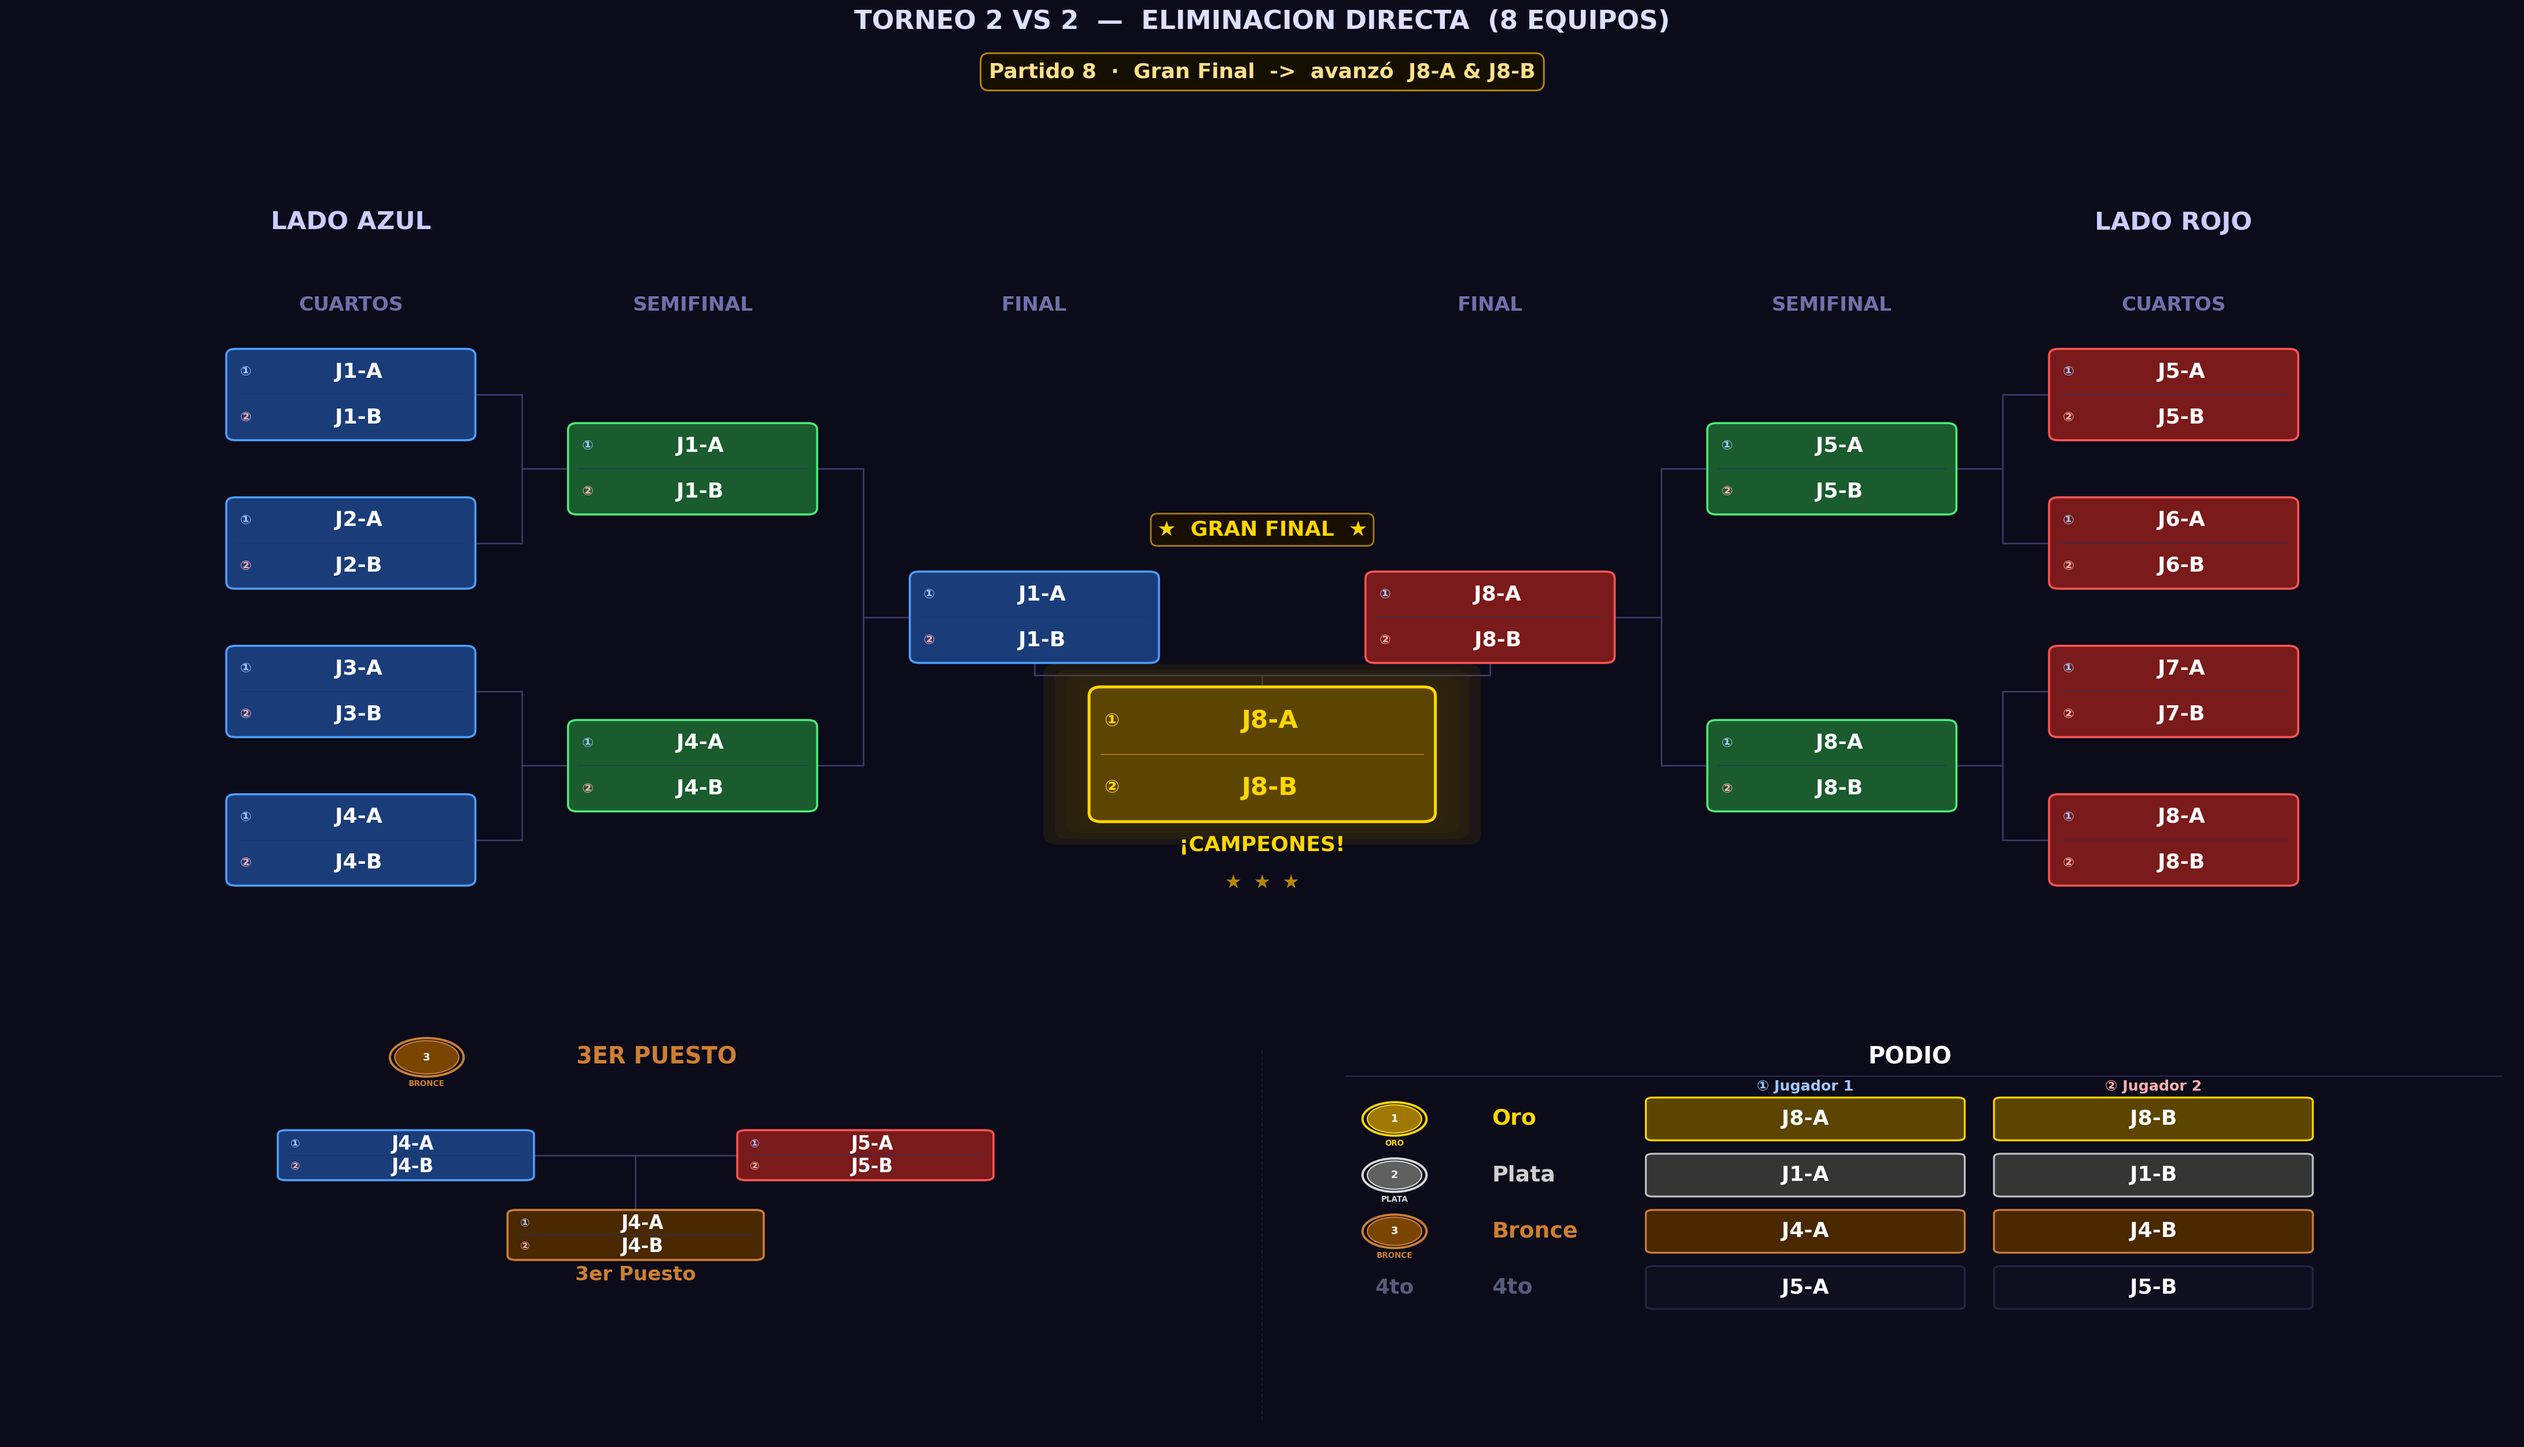
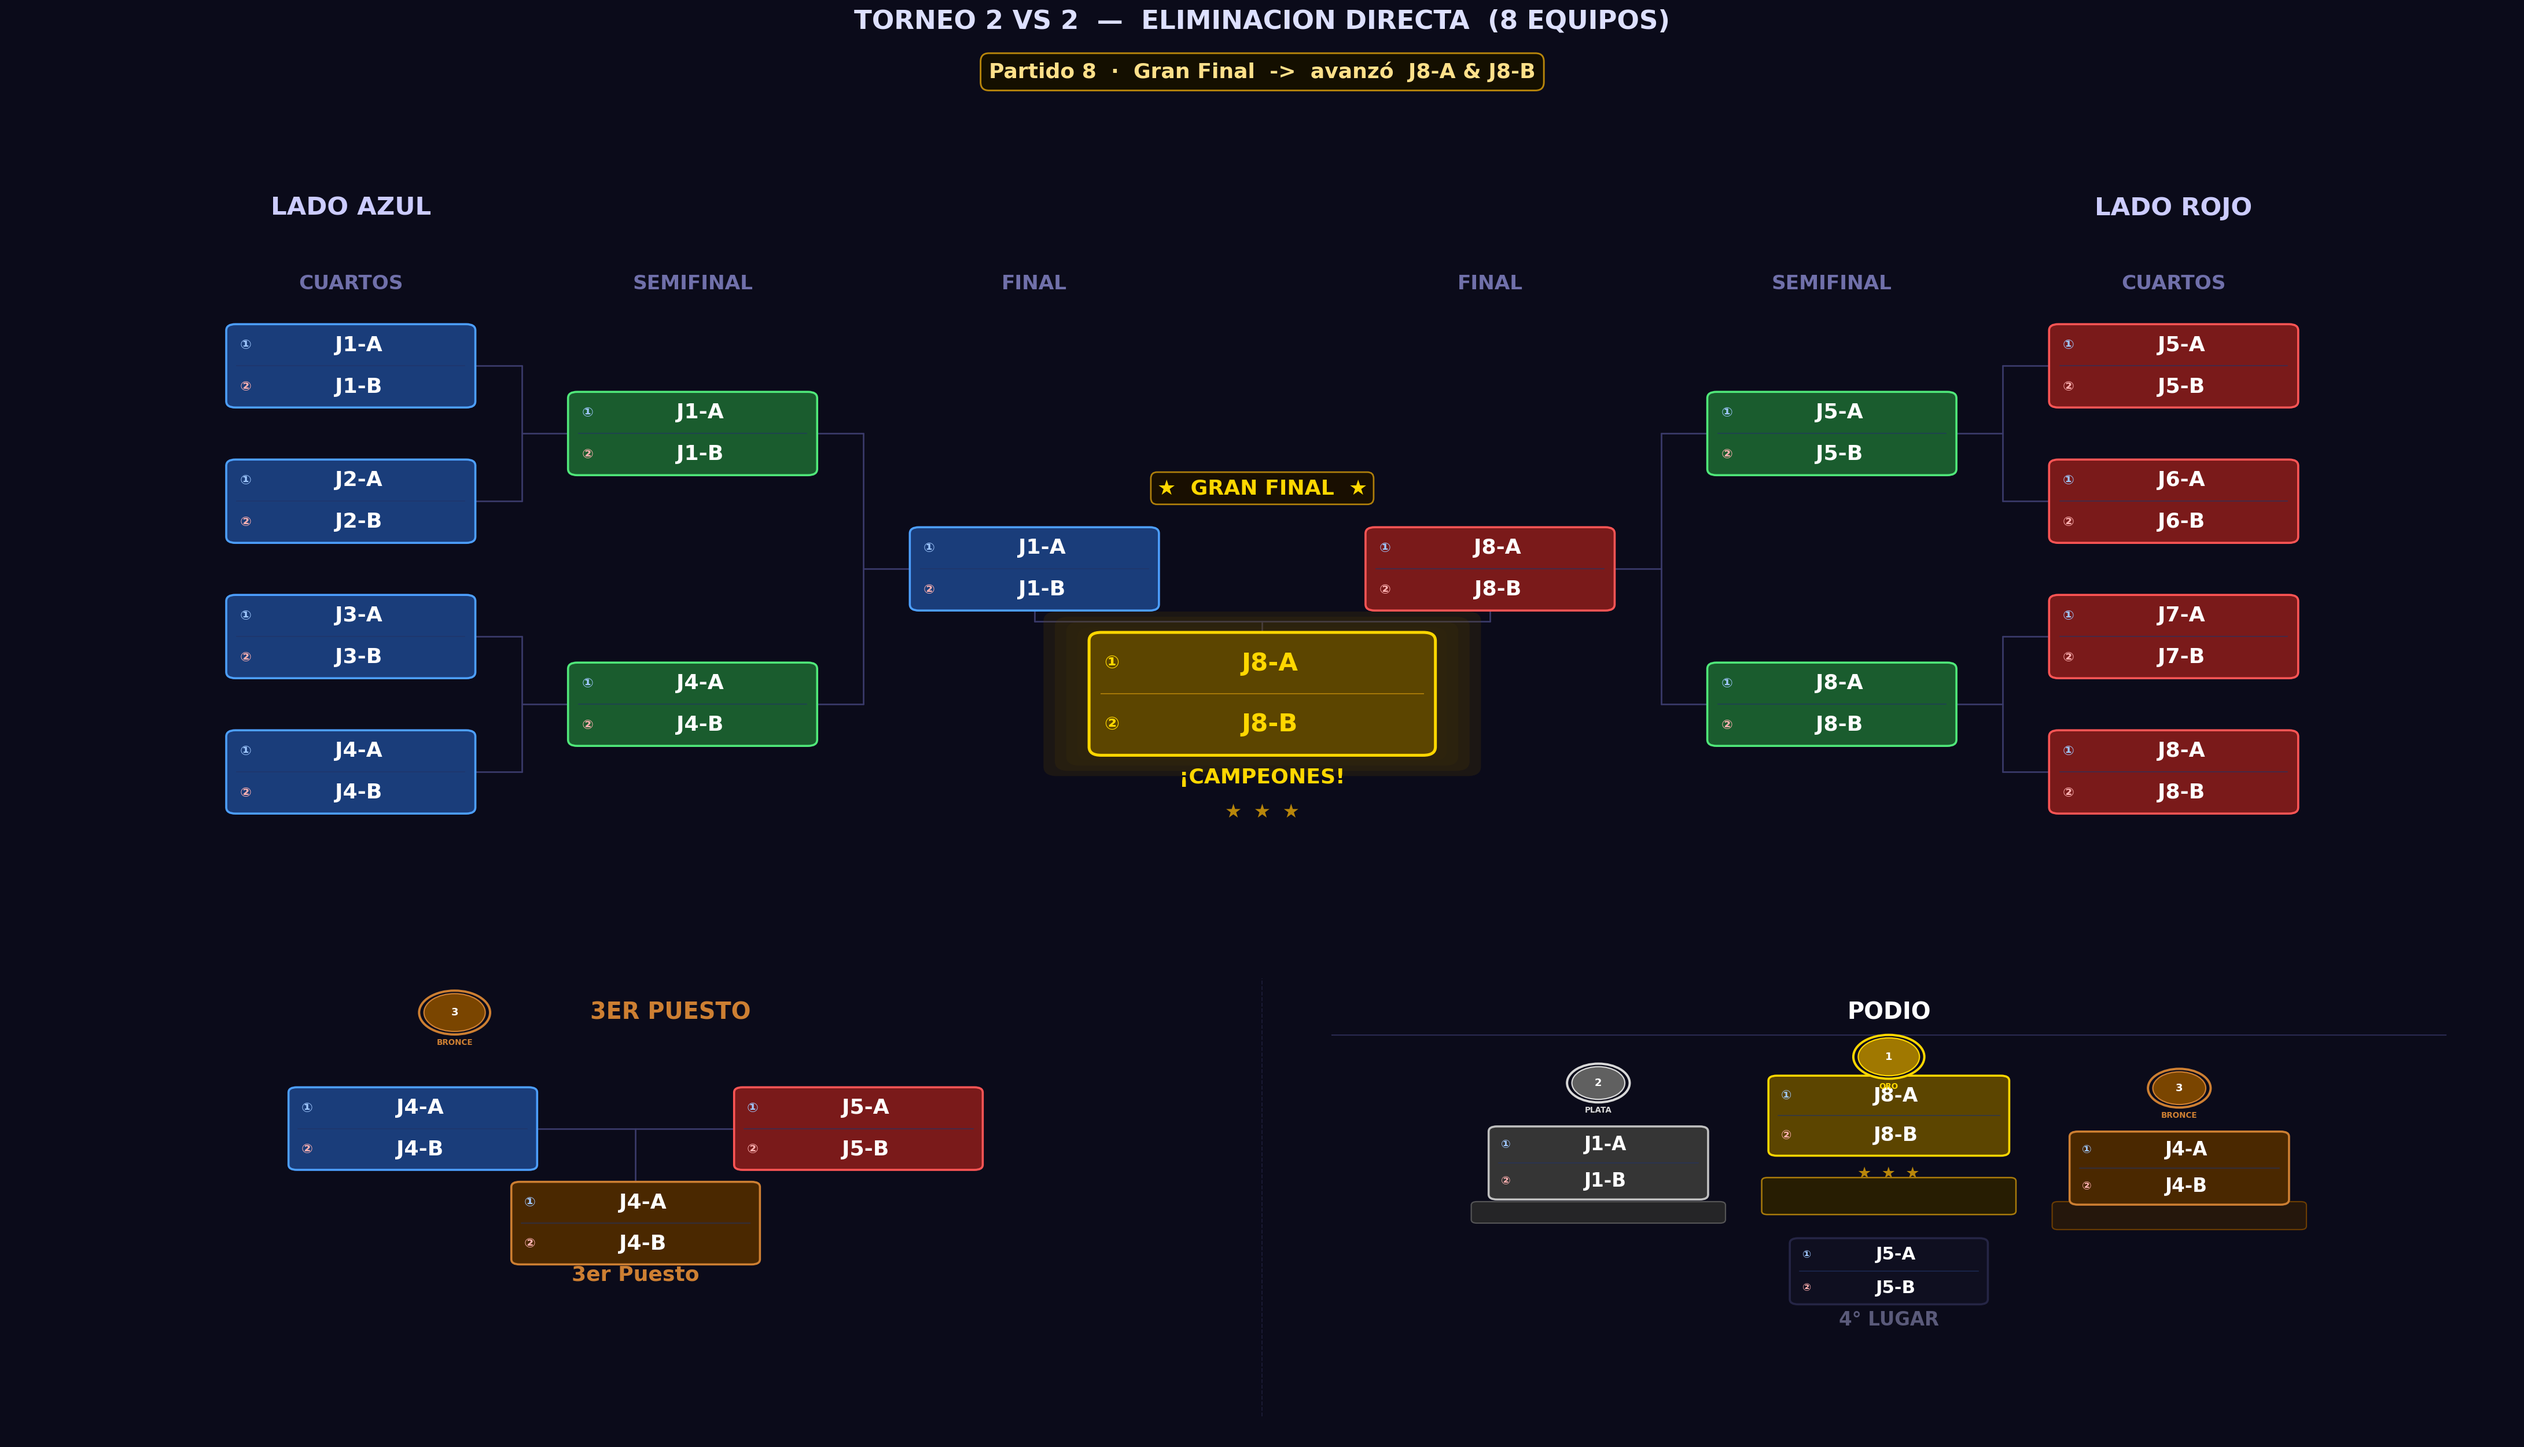
Fix: 15:50 06/06/2026

diff --git a/03_BeaNabi/Torneo.py b/03_BeaNabi/Torneo.py
@@ -403,21 +403,26 @@ def dibujar_panel_inferior(ax, st):
     """
     Panel inferior dividido en dos secciones (xlim = 0..36):
 
-      Sección 1 [x=0..18]  -> 3er Puesto
-      Sección 2 [x=18..36] -> Podio  (layout tabla horizontal)
+      Sección 1 [centro x =  9] -> 3er Puesto
+      Sección 2 [centro x = 27] -> Podio
 
-    Tamaños de caja fijos para el panel inferior para evitar
-    superposición independientemente del escalado.
+    Los bloques de equipo también muestran dos jugadores (duo).
     """
     ax.set_facecolor(C["bg"])
     ax.set_xlim(*XLIM_BOT)
     ax.set_ylim(*YLIM_BOT)
     ax.axis("off")
 
-    # Cajas fijas para el panel inferior (sin escalar desde arriba)
-    BOT_W  = 3.6    # ancho fijo
-    BOT_H  = 1.30   # alto total bloque doble
-    BOT_H1 = 0.55   # alto de cada sub-fila
+    # Escalado de cajas para que coincidan en tamaño físico con el bracket
+    _X_RANGE_TOP = (XLIM_TOP[1] - XLIM_TOP[0])   # 33
+    _Y_RANGE_TOP = (YLIM_TOP[1] - YLIM_TOP[0])   # 16
+    _X_RANGE_BOT = (XLIM_BOT[1] - XLIM_BOT[0])   # 36
+    _Y_RANGE_BOT = (YLIM_BOT[1] - YLIM_BOT[0])   # 12
+    _RATIO_TOP   = 2.1
+    _RATIO_BOT   = 1.3
+    BOT_W = BOX_W * (_X_RANGE_BOT / _X_RANGE_TOP)
+    BOT_H = BOX_H * (_Y_RANGE_BOT / _Y_RANGE_TOP) * (_RATIO_TOP / _RATIO_BOT)
+    BOT_H1 = BOT_H / 2 - 0.04   # alto de cada sub-fila escalada
 
     sl = st["semifinal_losers"]
 
@@ -426,130 +431,140 @@ def dibujar_panel_inferior(ax, st):
     # =================================================================
     #  SECCIÓN 1 — 3ER PUESTO  (centro x = 9)
     # =================================================================
-    X3     = 9.0
-    Y3_HDR = 10.5
-    Y3_CON = 7.8    # Y contendientes
-    Y3_WIN = 5.6    # Y ganador bronce
-    Y3_LBL = 4.5
+    X3 = 9.0
 
-    draw_medal(ax, X3 - 3.0, Y3_HDR, 3, r=0.46)
-    ax.text(X3 + 0.3, Y3_HDR, "3ER PUESTO", ha="center", va="center",
+    draw_medal(ax, X3 - 2.6, Y_HEAD, 3, r=0.44)
+    ax.text(X3 + 0.5, Y_HEAD, "3ER PUESTO", ha="center", va="center",
             fontsize=FS, fontweight="bold", color="#cd7f32")
 
-    xa3 = X3 - 3.3
-    xb3 = X3 + 3.3
-    draw_box_duo(ax, xa3, Y3_CON, sl[0], "azul" if sl[0] else "empty",
-                 w=BOT_W, h=BOT_H, h1=BOT_H1, fontsize=FS - 2)
-    draw_box_duo(ax, xb3, Y3_CON, sl[1], "rojo" if sl[1] else "empty",
-                 w=BOT_W, h=BOT_H, h1=BOT_H1, fontsize=FS - 2)
+    xa3 = X3 - 3.2
+    xb3 = X3 + 3.2
+    draw_box_duo(ax, xa3, Y_CONT, sl[0], "azul" if sl[0] else "empty",
+                 w=BOT_W, h=BOT_H, h1=BOT_H1, fontsize=FS)
+    draw_box_duo(ax, xb3, Y_CONT, sl[1], "rojo" if sl[1] else "empty",
+                 w=BOT_W, h=BOT_H, h1=BOT_H1, fontsize=FS)
 
     # Conector hacia el ganador del bronce
     edge_a = xa3 + BOT_W / 2
     edge_b = xb3 - BOT_W / 2
-    y_mid3 = (Y3_CON + Y3_WIN) / 2 + 0.2
-    draw_line(ax, edge_a, Y3_CON, X3,    Y3_CON)
-    draw_line(ax, edge_b, Y3_CON, X3,    Y3_CON)
-    draw_line(ax, X3,     Y3_CON, X3,    Y3_WIN + BOT_H / 2)
+    draw_line(ax, edge_a, Y_CONT, X3,   Y_CONT)
+    draw_line(ax, edge_b, Y_CONT, X3,   Y_CONT)
+    draw_line(ax, X3,     Y_CONT, X3,   Y_WIN + BOT_H / 2)
 
-    draw_box_duo(ax, X3, Y3_WIN, st["tercero"], "bronze",
-                 w=BOT_W, h=BOT_H, h1=BOT_H1, fontsize=FS - 2)
+    draw_box_duo(ax, X3, Y_WIN, st["tercero"], "bronze",
+                 w=BOT_W, h=BOT_H, h1=BOT_H1, fontsize=FS)
     if st["tercero"]:
-        ax.text(X3, Y3_LBL, "3er Puesto", ha="center", va="center",
-                fontsize=FS - 3, fontweight="bold", color="#cd7f32")
+        ax.text(X3, Y_LBL - 0.2, "3er Puesto", ha="center", va="center",
+                fontsize=FS - 2, fontweight="bold", color="#cd7f32")
 
     # =================================================================
-    #  SECCIÓN 2 — PODIO  (x = 19..36)
+    #  SECCIÓN 2 — PODIO  (lado derecho, xlim 18..36)
+    #  Disposición real de podio:
+    #    PLATA(izq)  ORO(centro-alto)  BRONCE(der)
+    #                   4TO (abajo)
     # =================================================================
-    # Layout horizontal: medalla | etiqueta | jugador 1 | jugador 2
-    # Cada puesto ocupa una fila, los dos jugadores en celdas separadas.
 
-    XP_LEFT  = 19.2   # inicio de la sección
-    X_MED    = 19.9   # centro de la medalla
-    X_LBL    = 21.3   # etiqueta "Oro / Plata..."
-    X_J1     = 25.8   # centro celda jugador 1
-    X_J2     = 30.8   # centro celda jugador 2
-    X_HDR_C  = 27.3   # centro del encabezado
-    CELL_W   = 4.5    # ancho de cada celda de jugador
-    CELL_H   = 1.10   # alto de cada celda
-    ROW_GAP  = 1.55   # separación entre filas del podio
+    # Centro de la sección podio y parámetros de layout
+    SEC_CX   = 27.0          # centro horizontal de la sección (18..36)
+    SEC_TOP  = Y_HEAD        # Y del título
 
-    Y_POD_HDR = 10.5
-    Y_POD_TOP = 8.8   # Y del primer puesto (Oro)
-
-    # Encabezado
-    ax.text(X_HDR_C, Y_POD_HDR, "PODIO", ha="center", va="center",
+    # Título PODIO
+    ax.text(SEC_CX, SEC_TOP, "PODIO", ha="center", va="center",
             fontsize=FS, fontweight="bold", color="#ffffff")
-    ax.plot([XP_LEFT, 35.8], [Y_POD_HDR - 0.52, Y_POD_HDR - 0.52],
+    ax.plot([19.0, 35.0], [SEC_TOP - 0.52, SEC_TOP - 0.52],
             color=C["sep"], lw=1.2, zorder=1)
 
-    # Sub-encabezados columnas jugadores
-    ax.text(X_J1, Y_POD_HDR - 0.80, "① Jugador 1", ha="center", va="center",
-            fontsize=FS - 8, color="#a0c8ff", fontweight="bold")
-    ax.text(X_J2, Y_POD_HDR - 0.80, "② Jugador 2", ha="center", va="center",
-            fontsize=FS - 8, color="#ffb0b0", fontweight="bold")
-
-    podio = [
-        (1, "Oro",    st["wb"][3][0],   "champ",  "#ffd700"),
-        (2, "Plata",  _subcampeon(st),  "silver", "#d0d0d0"),
-        (3, "Bronce", st["tercero"],    "bronze", "#cd7f32"),
-        (4, "4to",    st["cuarto"],     "empty",  "#5a5a7a"),
-    ]
-
-    paleta_celdas = {
-        1: ("#5c4500", "#ffd700"),    # oro
-        2: ("#353535", "#c0c0c0"),    # plata
-        3: ("#4a2800", "#cd7f32"),    # bronce
-        4: ("#0f0f20", "#252545"),    # 4to
+    # Datos de cada posición
+    podio_data = {
+        1: (st["wb"][3][0],  "champ",  "#ffd700"),
+        2: (_subcampeon(st), "silver", "#d0d0d0"),
+        3: (st["tercero"],   "bronze", "#cd7f32"),
+        4: (st["cuarto"],    "empty",  "#5a5a7a"),
     }
 
-    for pos, lbl, equipo, estilo, color_lbl in podio:
-        yp = Y_POD_TOP - (pos - 1) * ROW_GAP
+    # Escalado de caja para el podio — ligeramente más pequeño que BOT
+    PW   = BOT_W * 0.88
+    PH   = BOT_H * 0.88
+    PH1  = PH / 2 - 0.04
+    PFS  = FS - 2
 
-        # Medalla o "4to"
-        if pos <= 3:
-            draw_medal(ax, X_MED, yp, pos, r=0.39)
-        else:
-            ax.text(X_MED, yp, "4to", ha="center", va="center",
-                    fontsize=FS - 2, fontweight="bold", color=color_lbl, zorder=5)
+    # Separación horizontal entre columnas del podio (Plata | Oro | Bronce)
+    H_SEP  = PW + 1.1          # distancia entre centros horizontales
+    # Separación vertical entre fila superior e inferior del podio
+    V_SEP  = PH + 2.0
 
-        # Etiqueta del puesto
-        ax.text(X_LBL, yp, lbl, ha="left", va="center",
-                fontsize=FS - 1, fontweight="bold", color=color_lbl)
+    # Posiciones X de las tres columnas superiores
+    X_GOLD   = SEC_CX
+    X_SILVER = SEC_CX - H_SEP
+    X_BRONZE = SEC_CX + H_SEP
 
-        # Extraer jugadores del equipo
-        if equipo is None:
-            j1_txt, j2_txt = "", ""
-        elif isinstance(equipo, list):
-            j1_txt = equipo[0] if len(equipo) > 0 else ""
-            j2_txt = equipo[1] if len(equipo) > 1 else ""
-        else:
-            j1_txt, j2_txt = str(equipo), ""
+    # Escalones del podio: Oro más arriba, Plata intermedio, Bronce más bajo
+    Y_ROW_TOP = SEC_TOP - 2.4   # fila Oro
+    Y_ROW_MID = Y_ROW_TOP - 0.55  # fila Plata/Bronce (medio paso abajo)
+    Y_ROW_BOT = Y_ROW_TOP - V_SEP  # fila 4to lugar
 
-        fc, ec = paleta_celdas[pos]
+    # Radio de medalla escalado
+    MR = 0.38
 
-        # Celda jugador 1
-        alpha1 = 1.0 if j1_txt else 0.45
-        ax.add_patch(FancyBboxPatch(
-            (X_J1 - CELL_W/2, yp - CELL_H/2), CELL_W, CELL_H,
-            boxstyle="round,pad=0.04,rounding_size=0.10",
-            fc=fc, ec=ec, lw=1.8, alpha=alpha1, zorder=3
-        ))
-        if j1_txt:
-            ax.text(X_J1, yp, j1_txt, ha="center", va="center",
-                    fontsize=FS - 2, color="#ffffff", fontweight="bold",
-                    zorder=4, clip_on=True)
+    # ── Plataformas del podio (rectángulos tipo escalón) ──────────────────
+    # Plata  (altura 1)
+    PLAT_OFFSET = 0.55
+    plat_w = PW + 0.5
+    ax.add_patch(FancyBboxPatch(
+        (X_SILVER - plat_w/2, Y_ROW_MID - PH/2 - 0.55 - PLAT_OFFSET),
+        plat_w, 0.42,
+        boxstyle="round,pad=0.04,rounding_size=0.08",
+        fc="#2a2a2a", ec="#606060", lw=1.2, alpha=0.85, zorder=2
+    ))
+    # Bronce (altura 1)
+    ax.add_patch(FancyBboxPatch(
+        (X_BRONZE - plat_w/2, Y_ROW_MID - PH/2 - 0.70 - PLAT_OFFSET),
+        plat_w, 0.57,
+        boxstyle="round,pad=0.04,rounding_size=0.08",
+        fc="#2a1a0a", ec="#7a4500", lw=1.2, alpha=0.85, zorder=2
+    ))
+    # Oro (plataforma más alta)
+    ax.add_patch(FancyBboxPatch(
+        (X_GOLD - plat_w/2, Y_ROW_TOP - PH/2 - 0.90 - PLAT_OFFSET),
+        plat_w, 0.78,
+        boxstyle="round,pad=0.04,rounding_size=0.08",
+        fc="#2b2000", ec="#b8860b", lw=1.4, alpha=0.90, zorder=2
+    ))
 
-        # Celda jugador 2
-        alpha2 = 1.0 if j2_txt else 0.45
-        ax.add_patch(FancyBboxPatch(
-            (X_J2 - CELL_W/2, yp - CELL_H/2), CELL_W, CELL_H,
-            boxstyle="round,pad=0.04,rounding_size=0.10",
-            fc=fc, ec=ec, lw=1.8, alpha=alpha2, zorder=3
-        ))
-        if j2_txt:
-            ax.text(X_J2, yp, j2_txt, ha="center", va="center",
-                    fontsize=FS - 2, color="#ffffff", fontweight="bold",
-                    zorder=4, clip_on=True)
+    # ── ORO (centro, más alto) ────────────────────────────────────────────
+    eq1, st1, col1 = podio_data[1]
+    # Brillo de medalla grande para el oro
+    draw_medal(ax, X_GOLD, Y_ROW_TOP + PH/2 + MR + 0.18, 1, r=MR + 0.06)
+    draw_box_duo(ax, X_GOLD, Y_ROW_TOP, eq1,
+                 st1 if eq1 else "empty",
+                 w=PW * 1.10, h=PH * 1.10, h1=PH1 * 1.10, fontsize=PFS + 1, z=4)
+    # Estrellas decorativas
+    ax.text(X_GOLD, Y_ROW_TOP - PH*1.10/2 - 0.28, "★  ★  ★",
+            ha="center", va="top",
+            fontsize=PFS - 5, color="#b8860b", zorder=5)
+
+    # ── PLATA (izquierda, medio) ──────────────────────────────────────────
+    eq2, st2, col2 = podio_data[2]
+    draw_medal(ax, X_SILVER, Y_ROW_MID + PH/2 + MR + 0.12, 2, r=MR)
+    draw_box_duo(ax, X_SILVER, Y_ROW_MID - PLAT_OFFSET, eq2,
+                 st2 if eq2 else "empty",
+                 w=PW, h=PH, h1=PH1, fontsize=PFS, z=3)
+
+    # ── BRONCE (derecha, más bajo) ────────────────────────────────────────
+    eq3, st3, col3 = podio_data[3]
+    draw_medal(ax, X_BRONZE, Y_ROW_MID - 0.12 + PH/2 + MR + 0.12, 3, r=MR)
+    draw_box_duo(ax, X_BRONZE, Y_ROW_MID - 0.12 - PLAT_OFFSET, eq3,
+                 st3 if eq3 else "empty",
+                 w=PW, h=PH, h1=PH1, fontsize=PFS, z=3)
+
+    # ── 4TO LUGAR (abajo, centrado) ───────────────────────────────────────
+    eq4, st4, col4 = podio_data[4]
+    draw_box_duo(ax, SEC_CX, Y_ROW_BOT, eq4,
+                 st4 if eq4 else "empty",
+                 w=PW * 0.90, h=PH * 0.90, h1=PH1 * 0.90, fontsize=PFS - 1, z=3)
+    ax.text(SEC_CX, Y_ROW_BOT - PH*0.90/2 - 0.18, "4\u00b0 LUGAR",
+            ha="center", va="top",
+            fontsize=PFS - 2, fontweight="bold", color=col4, zorder=5)
 
 
 # =====================================================================
@@ -560,7 +575,7 @@ def render(st, banner=None, ruta=None, dpi=130):
     fig = plt.figure(figsize=(34, 20), facecolor=C["bg"])
     gs  = fig.add_gridspec(
         2, 1,
-        height_ratios=[2.1, 1.0],
+        height_ratios=[2.1, 1.3],
         hspace=0.03,
         top=0.93, bottom=0.02,
         left=0.01, right=0.99,
